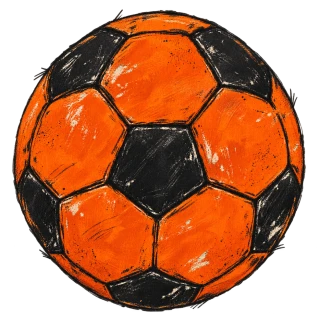
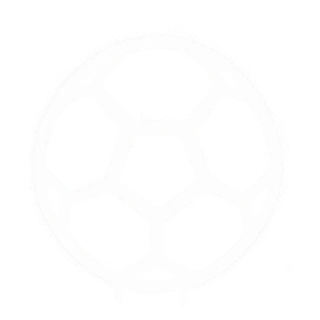
score update

diff --git a/src/components/AdminLoader.css b/src/components/AdminLoader.css
@@ -25,14 +25,14 @@
   bottom: 0;
   width: 86px;
   height: 6px;
-  background: radial-gradient(ellipse, #bf582b 4%, transparent 70%);
+  background: radial-gradient(ellipse, rgba(255, 255, 255, .5) 4%, transparent 70%);
   animation: street-ball-shadow var(--bounce-duration) infinite;
 }
 
 .admin-loader-ball {
   position: relative;
-  width: 90px;
-  height: 90px;
+  width: 45px;
+  height: 45px;
   transform-origin: center 98%;
   animation: street-ball-bounce var(--bounce-duration) infinite;
 }
@@ -43,15 +43,15 @@
   height: 34px;
   transform-origin: center bottom;
   background:
-    radial-gradient(ellipse at 8% 66%, #ff7624 2px, transparent 3px),
-    radial-gradient(circle at 5% 26%, #ffbf83 1px, transparent 2px),
-    radial-gradient(ellipse at 20% 82%, #ec6222 5px, transparent 6px),
-    radial-gradient(circle at 17% 42%, #ff9741 2px, transparent 3px),
-    radial-gradient(circle at 24% 18%, #ed6225 1px, transparent 2px),
-    radial-gradient(ellipse at 77% 72%, #ff873f 4px, transparent 5px),
-    radial-gradient(circle at 85% 25%, #ffbf83 2px, transparent 3px),
-    radial-gradient(circle at 90% 65%, #ed6225 2px, transparent 3px),
-    radial-gradient(circle at 95% 43%, #ed6225 1px, transparent 2px);
+    radial-gradient(ellipse at 8% 66%, #fff 2px, transparent 3px),
+    radial-gradient(circle at 5% 26%, #fff 1px, transparent 2px),
+    radial-gradient(ellipse at 20% 82%, #fff 5px, transparent 6px),
+    radial-gradient(circle at 17% 42%, #fff 2px, transparent 3px),
+    radial-gradient(circle at 24% 18%, #fff 1px, transparent 2px),
+    radial-gradient(ellipse at 77% 72%, #fff 4px, transparent 5px),
+    radial-gradient(circle at 85% 25%, #fff 2px, transparent 3px),
+    radial-gradient(circle at 90% 65%, #fff 2px, transparent 3px),
+    radial-gradient(circle at 95% 43%, #fff 1px, transparent 2px);
   animation: street-paint-impact var(--bounce-duration) infinite;
 }
 

diff --git a/src/features/matches/MatchBanner.tsx b/src/features/matches/MatchBanner.tsx
@@ -131,6 +131,14 @@ export default function MatchBanner({
         item.opponentId === opponent?.id || item.opponent === match.opponent,
     ),
   );
+  if (match.status === "in_progress") {
+    const liveResult = match.goalsFor > match.goalsAgainst
+      ? "W"
+      : match.goalsFor < match.goalsAgainst
+        ? "L"
+        : "D";
+    headToHead[liveResult] += 1;
+  }
   const clock = match.status === "in_progress" && (
     <Stack spacing={0.5}>
       {phase?.label === "HALF TIME" && (

diff --git a/src/components/RecordBar.tsx b/src/components/RecordBar.tsx
@@ -22,6 +22,7 @@ const Segment = styled(Box, {
   placeItems: "center",
   transform: "skewX(-10deg)",
   minWidth: 46,
+  transition: "flex-grow 2s ease",
   background:
     tone === "win"
       ? theme.palette.success.main
